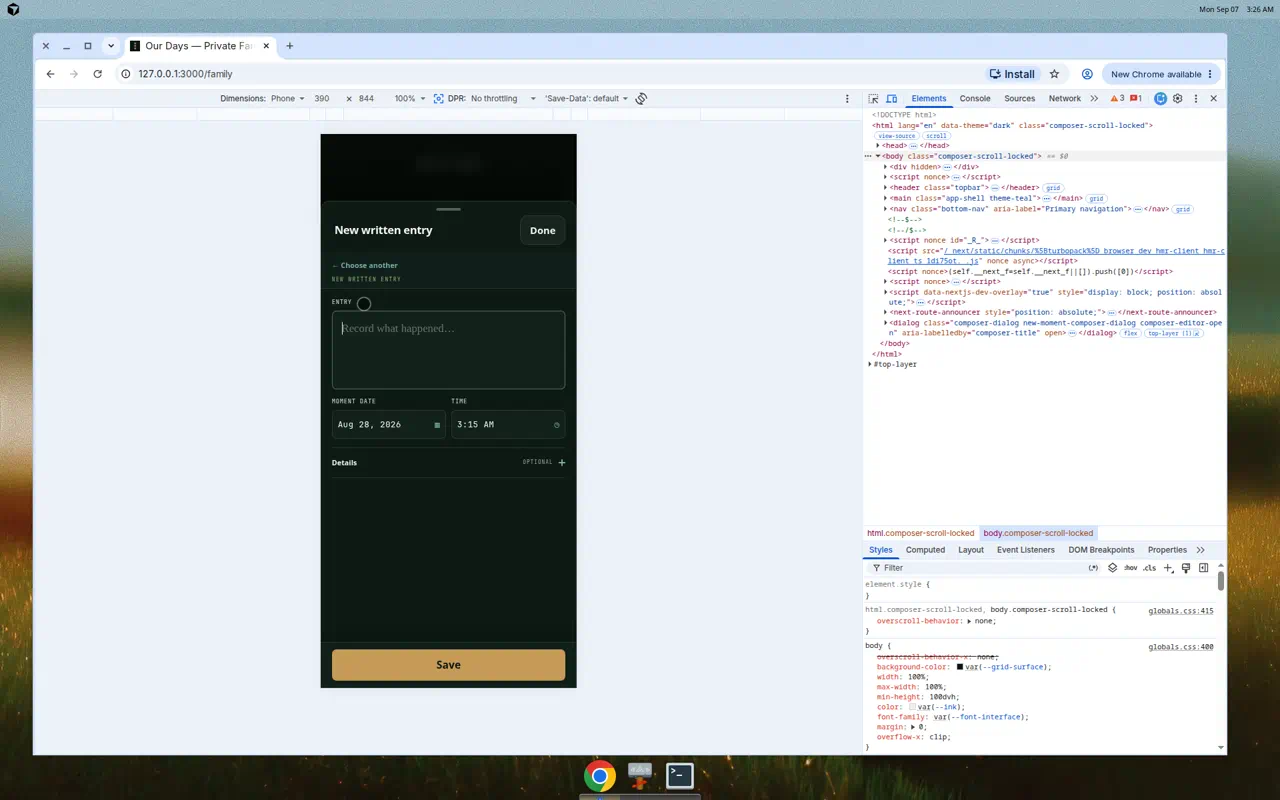
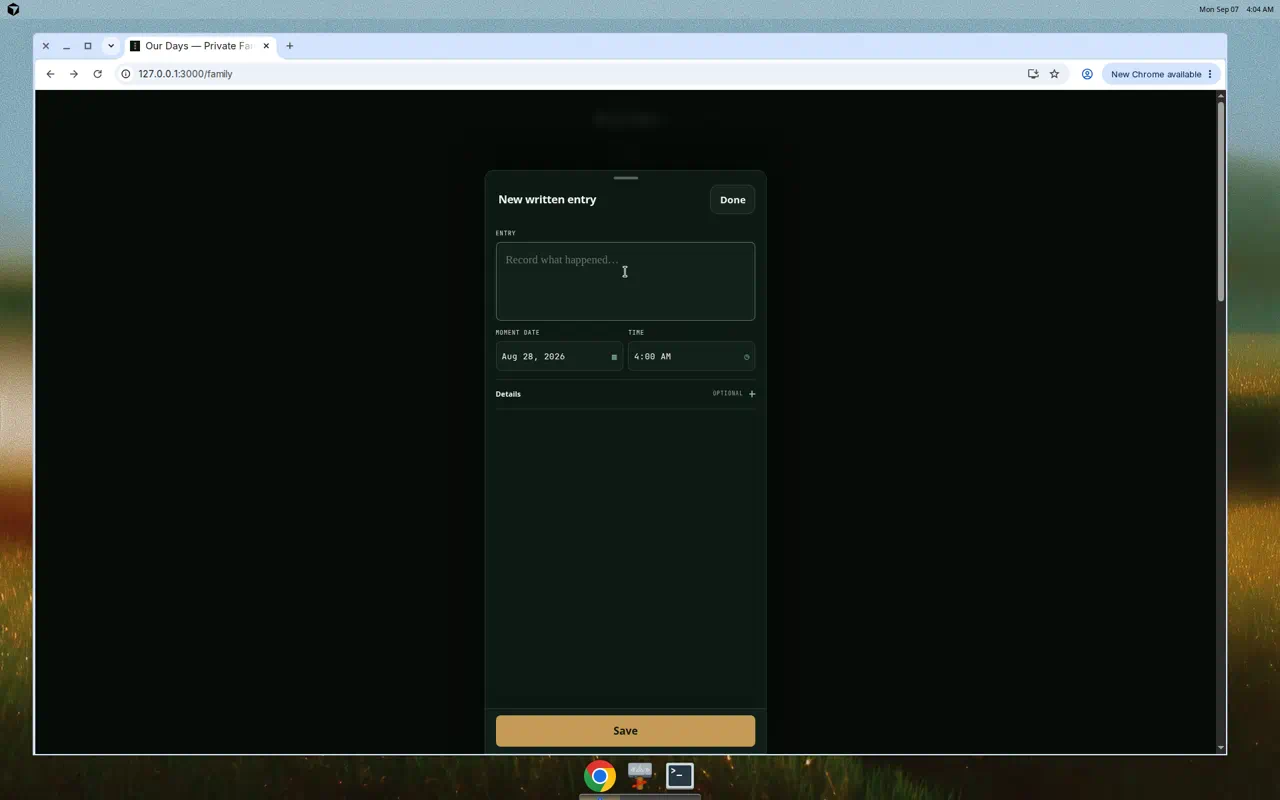
Kill leftover composer type-switcher chrome in every editor.
Assert written, photo, and Bible editors have no Choose another or type kicker, drop dead back-link styles, and replace the stale dark written-editor proof.

diff --git a/src/features/composer/moment-composer.test.tsx b/src/features/composer/moment-composer.test.tsx
@@ -1124,6 +1124,33 @@ describe("MomentComposer", () => {
     ).toBeNull();
   });
 
+  it.each([
+    ["Written entry", "New written entry"],
+    ["Photo or video", "New photo entry"],
+    ["Bible verse", "Add a Bible verse"],
+  ] as const)(
+    "drops Choose another and the type kicker in the %s editor",
+    async (choice, title) => {
+      const user = await openComposer();
+      await user.click(
+        screen.getByRole("button", { name: new RegExp(choice) }),
+      );
+      const editor = screen.getByRole("dialog", { name: title });
+      expect(screen.getByRole("heading", { name: title })).toBeVisible();
+      expect(screen.getByRole("button", { name: "Done" })).toBeVisible();
+      expect(editor.querySelector(".sheet-handle")).not.toBeNull();
+      expect(
+        screen.queryByRole("button", { name: /Choose another/u }),
+      ).toBeNull();
+      expect(editor.querySelector(".composer-editor-header")).toBeNull();
+      expect(editor.querySelector(".composer-back")).toBeNull();
+      expect(
+        editor.querySelector(".composer-fullscreen-form .private-label"),
+      ).toBeNull();
+      expect(editor.textContent).not.toMatch(/←\s*Choose another/u);
+    },
+  );
+
   it("dismisses the composer sheet with Done and a reverse sheet motion", async () => {
     const user = await openComposer();
     await user.click(screen.getByRole("button", { name: "Done" }));

diff --git a/src/app/globals.css b/src/app/globals.css
@@ -3696,17 +3696,6 @@ button:focus-visible,
   font-size: 9px;
   line-height: 1.35;
 }
-.composer-back {
-  min-height: 44px;
-  margin: -16px 0 3px -8px;
-  padding: 0 8px;
-  border: 0;
-  background: transparent;
-  color: var(--teal);
-  font-size: 12px;
-  font-weight: 650;
-  cursor: pointer;
-}
 .composer-field,
 .photo-input {
   margin-top: 12px;
@@ -5560,15 +5549,6 @@ button:focus-visible,
   color: var(--ink);
 }
 
-.composer-back {
-  color: var(--teal);
-  font-family: var(--font-interface);
-  font-size: 11px;
-  font-weight: 650;
-  letter-spacing: 0;
-  text-transform: none;
-}
-
 .photo-input,
 .composer-preview-card {
   border-color: color-mix(in srgb, var(--clay) 58%, transparent);
@@ -7296,8 +7276,10 @@ html[data-theme].overlay-open .app-shell::before,
   justify-content: center;
 }
 
-.quick-compose > .private-label {
-  margin-top: 0;
+.new-moment-composer-dialog .composer-editor-header,
+.new-moment-composer-dialog .composer-back,
+.new-moment-composer-dialog .composer-fullscreen-form > .private-label {
+  display: none;
 }
 
 /* Header drawers share one surface and one close control. Their height and
@@ -7993,10 +7975,6 @@ iframe.composer-location-map {
 
 :root[data-theme="light"] .moment-choices small {
   color: #4f5d56;
-}
-
-:root[data-theme="light"] .composer-back {
-  color: #285f5b;
 }
 
 :root[data-theme="light"] .composer-sheet .private-label {
